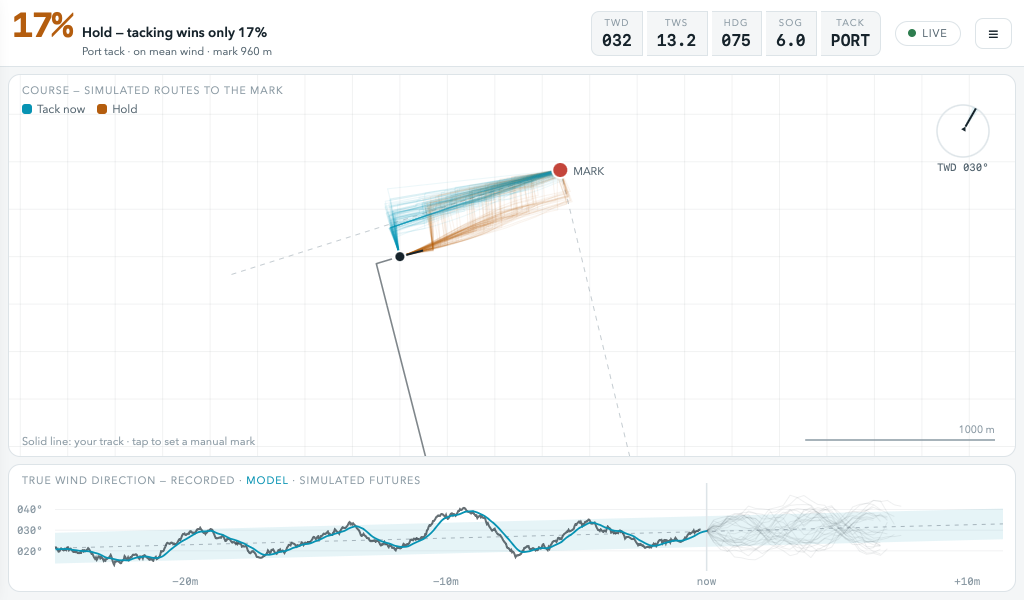
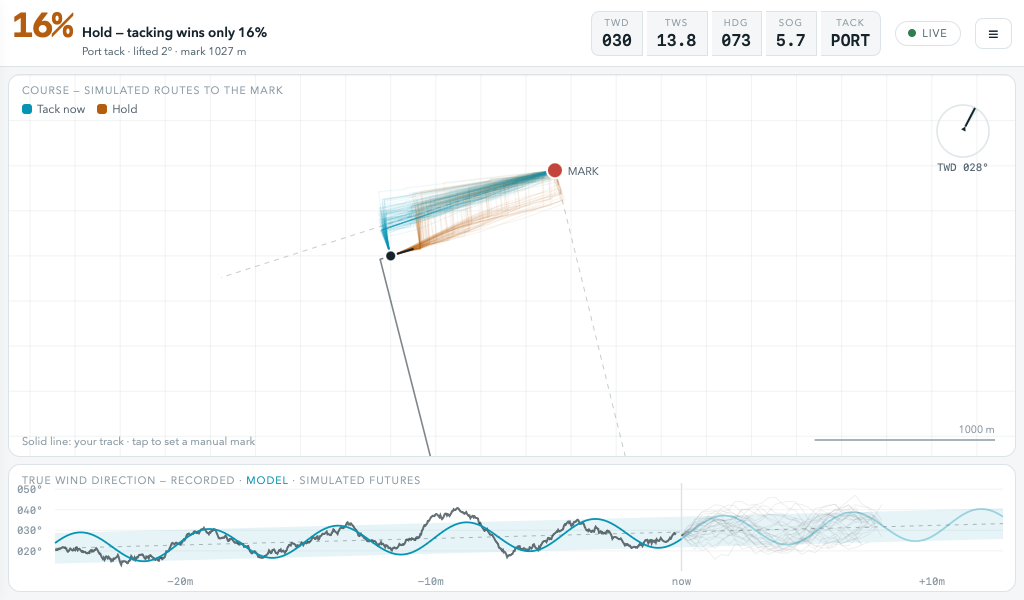
Replace smoothed-wind overlay with the fitted model projection
The teal line is now the model's sinusoid — amplitude/period/trend from
the fit, phase by least squares against the recorded residuals — solid
over the past, faded where it extrapolates forward. Reads as the
breeze's rhythm: when the next header/lift is due if the oscillation
holds its beat.

Claude-Session: https://claude.ai/code/session_01CVnHvrXJj6fyZ1D6HTCPdn

diff --git a/public/index.html b/public/index.html
@@ -422,13 +422,26 @@ function fitWind(hist, windowMin, tauDefault) {
   }
   const tail = v.slice(-8);
   const cur = tail.reduce((a, b) => a + b) / tail.length;
-  // smoothed wind (trend + slow residual, fast noise removed) for the chart overlay
-  const step = Math.max(1, Math.floor(n / 240));
-  const smoothPts = [];
-  for (let i = 0; i < n; i += step) smoothPts.push([t[i] * 60, mv + trend * (t[i] - mt) + smooth[i]]);  // [sec, deg]
+  // oscillation phase by least squares: regress residuals on sin/cos at the
+  // detected period, so the drawn model wave lines up with the recorded swings
+  const w = 2 * Math.PI / period;
+  let Sss = 0, Scc = 0, Ssc = 0, Srs = 0, Src = 0;
+  for (let i = 0; i < n; i++) {
+    const ts = t[i] * 60;
+    const si = Math.sin(w * ts), ci = Math.cos(w * ts);
+    Sss += si * si; Scc += ci * ci; Ssc += si * ci;
+    Srs += resid[i] * si; Src += resid[i] * ci;
+  }
+  const det = Sss * Scc - Ssc * Ssc;
+  let phase = 0;
+  if (Math.abs(det) > 1e-9) {
+    const a = (Srs * Scc - Src * Ssc) / det;   // coefficient on sin
+    const b = (Src * Sss - Srs * Ssc) / det;   // coefficient on cos
+    phase = Math.atan2(b, a);                  // a·sin + b·cos = A·sin(ωt + φ)
+  }
   return {
     cur: norm360(cur), mean: norm360(cur + normAng(meanNow - cur)),
-    trend, amp, period, sigma, tau: tauDefault, smoothPts,
+    trend, amp, period, sigma, tau: tauDefault, phase,
     windowUsed: Math.round((t[n - 1] - t[0])), samples: n, source: "fit",
   };
 }
@@ -888,19 +901,25 @@ function drawStrip() {
     past.forEach((p, i) => i ? ctx.lineTo(X(p[0]), Y(p[1])) : ctx.moveTo(X(p[0]), Y(p[1])));
     ctx.stroke(); ctx.globalAlpha = 1;
   }
-  // smoothed wind (what the fit extracted) over the raw trace, re-anchored in
-  // case the fit unwrapped into a different 360° branch than the raw drawing
-  if (fit && fit.smoothPts && fit.smoothPts.length > 1) {
-    const off = 360 * Math.round((fit.smoothPts[fit.smoothPts.length - 1][1] - P.cur) / 360);
+  // model projection: the fitted sinusoid (LS phase, model amp/period/trend),
+  // solid over the recorded past, faded where it extrapolates into the future
+  if (P.amp > 0.3) {
+    const phase = (fit && fit.phase != null && (!settings || !settings.windOverride || !settings.windOverride.enabled))
+      ? fit.phase
+      : Math.asin(clamp((P.cur - P.mean) / Math.max(0.31, P.amp), -1, 1));  // fallback: anchor at now
+    const wv = 2 * Math.PI / P.period;
+    const proj = t => trendAt(t) + P.amp * Math.sin(wv * t + phase);
     ctx.strokeStyle = css("--tack"); ctx.lineWidth = 1.8;
-    ctx.beginPath();
-    let started = false;
-    for (const [ts, v] of fit.smoothPts) {
-      if (ts < T0) continue;
-      if (!started) { ctx.moveTo(X(ts), Y(v - off)); started = true; }
-      else ctx.lineTo(X(ts), Y(v - off));
+    for (const [ta, tb, alpha] of [[T0, 0, 1], [0, T1, 0.35]]) {
+      ctx.globalAlpha = alpha;
+      ctx.beginPath();
+      const stepT = (tb - ta) / 160;
+      for (let tt = ta; tt <= tb; tt += stepT) {
+        if (tt === ta) ctx.moveTo(X(tt), Y(proj(tt))); else ctx.lineTo(X(tt), Y(proj(tt)));
+      }
+      ctx.stroke();
     }
-    ctx.stroke();
+    ctx.globalAlpha = 1;
   }
   stripC._map = { X, Y, T0, T1, padL, padR, past, P };
 }